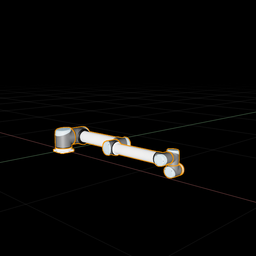
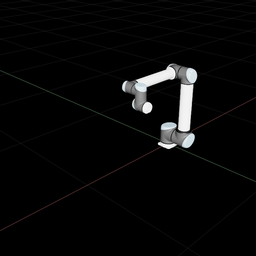
Add hitl ur10

diff --git a/ur10.py b/ur10.py
@@ -1,0 +1,117 @@
+import argparse
+
+from isaacsim import SimulationApp
+
+parser = argparse.ArgumentParser()
+parser.add_argument("--test", default=False, action="store_true", help="Run in test mode")
+args, unknown = parser.parse_known_args()
+
+
+simulation_app = SimulationApp({"headless": False})
+
+import carb
+import numpy as np
+from isaacsim.core.api import World
+from isaacsim.core.api.robots import Robot
+from isaacsim.core.utils.stage import add_reference_to_stage, get_stage_units
+from isaacsim.core.utils.types import ArticulationAction
+from isaacsim.core.prims import SingleXFormPrim
+# from isaacsim.core.prims.articulation import Articulation
+from omni.isaac.core.utils.extensions import enable_extension
+from omni.isaac.dynamic_control import _dynamic_control
+from isaacsim.sensors.physics import IMUSensor
+from isaacsim.core.utils.numpy.rotations import quats_to_rot_matrices, euler_angles_to_quats
+from isaacsim.core.prims import Articulation, RigidPrim
+
+my_world = World(stage_units_in_meters=1.0, physics_dt = 0.005, rendering_dt = 0.002)
+my_world.scene.add_default_ground_plane()
+
+# enable ROS bridge extension
+enable_extension("isaacsim.ros2.bridge")
+simulation_app.update()
+
+import rclpy
+from sensor_msgs.msg import JointState, Imu
+from std_msgs.msg import Float32MultiArray
+from geometry_msgs.msg import Pose
+
+ACTION_DIM = 10
+# joint_cmd = np.array([0, 0, -0.2, 0.25, 0, 0, 0, -0.2, 0.25, 0])
+joint_cmd = np.array([0, -1.712, 1.712, 0, 0, 0])
+kps = np.array([800, 800, 800, 800, 800, 800])
+kds = np.array([40, 40, 40, 40, 40, 40])
+def joint_cmd_callback(msg):
+    # For general, the velocity field is used as pds gains
+    global joint_cmd, kps, kds, ACTION_DIM
+    joint_cmd = np.array(msg.position)
+    kps = np.array(msg.velocity[:ACTION_DIM])
+    kds = np.array(msg.velocity[ACTION_DIM:])
+
+# ROS2 node and publishers and subscribers
+rclpy.init()
+node = rclpy.create_node('UR10_HWITL')
+pub_joint_state = node.create_publisher(JointState, '/joint_feedback', 10)
+pub_ee_pose = node.create_publisher(Pose, '/ee_pose', 10)
+sub_joint_feedback = node.create_subscription(JointState, '/joint_state_cmds', joint_cmd_callback, 10)
+rate = node.create_rate(50, node.get_clock())
+
+# Spawn ur10, set initial pose, initialize controller
+ur10_asset_path = "ur10.usd"
+add_reference_to_stage(usd_path=ur10_asset_path, prim_path="/World/ur10")
+ur10: Robot = my_world.scene.add(Robot(prim_path="/World/ur10", name="my_ur10"))
+# ur10.set_world_pose(position=np.array([0.0, 0.0, 0.0]) / get_stage_units()
+#                         , orientation=euler_angles_to_quats(np.array([0, 0, 0])))
+
+ur10_articulation = Articulation(prim_paths_expr="/World/ur10/root_joint")
+# humanoid_articulation.set_joint_positions(np.array([0.0, 0.0, 0.0, 0.0, -0.2, -0.2, 0.25, 0.25, 0.0, 0.0]))
+# humanoid_articulation.set_friction_coefficients(np.array([0.5, 0.5, 0.5, 0.5, 0.5, 0.5, 0.5, 0.5, 0.5, 0.5]))
+
+my_world.reset()
+ur10.get_articulation_controller().set_gains(kps, kds)
+joint_states = JointState()
+
+# Add end effector
+ee_prim_path = "/World/ur10/ee_link"
+end_effector:RigidPrim  = my_world.scene.add(RigidPrim(prim_paths_expr=ee_prim_path, name="my_ur10_ee"))
+
+reset_needed = False
+while simulation_app.is_running():
+    my_world.step(render=True)
+    if my_world.is_stopped() and not reset_needed:
+        reset_needed = True
+    if my_world.is_playing():
+        if reset_needed:
+            my_world.reset()
+            reset_needed = False
+
+        current_time = node.get_clock().now().to_msg()
+     
+        # Apply joint commands
+        ur10.get_articulation_controller().apply_action(
+            ArticulationAction(joint_positions=joint_cmd)
+        )
+        
+        # Joint states feedback
+        joint_states.header.stamp = current_time
+        joint_states.position = ur10.get_joint_positions().tolist()
+        joint_states.velocity = ur10.get_joint_velocities().tolist()
+        pub_joint_state.publish(joint_states)
+
+        ee_pos_real = end_effector.get_world_poses()[0].flatten().tolist()
+        ee_orn_real = end_effector.get_world_poses()[1].flatten().tolist()
+
+        # publish pose command
+        ee_pose_real = Pose()
+        ee_pose_real.position.x = ee_pos_real[0]
+        ee_pose_real.position.y = ee_pos_real[1]
+        ee_pose_real.position.z = ee_pos_real[2]
+        ee_pose_real.orientation.x = ee_orn_real[1]
+        ee_pose_real.orientation.y = ee_orn_real[2]
+        ee_pose_real.orientation.z = ee_orn_real[3]
+        ee_pose_real.orientation.w = ee_orn_real[0]
+        pub_ee_pose.publish(ee_pose_real)
+
+        # spin ROS2 node
+        rclpy.spin_once(node, timeout_sec=0.0)
+
+simulation_app.close()
